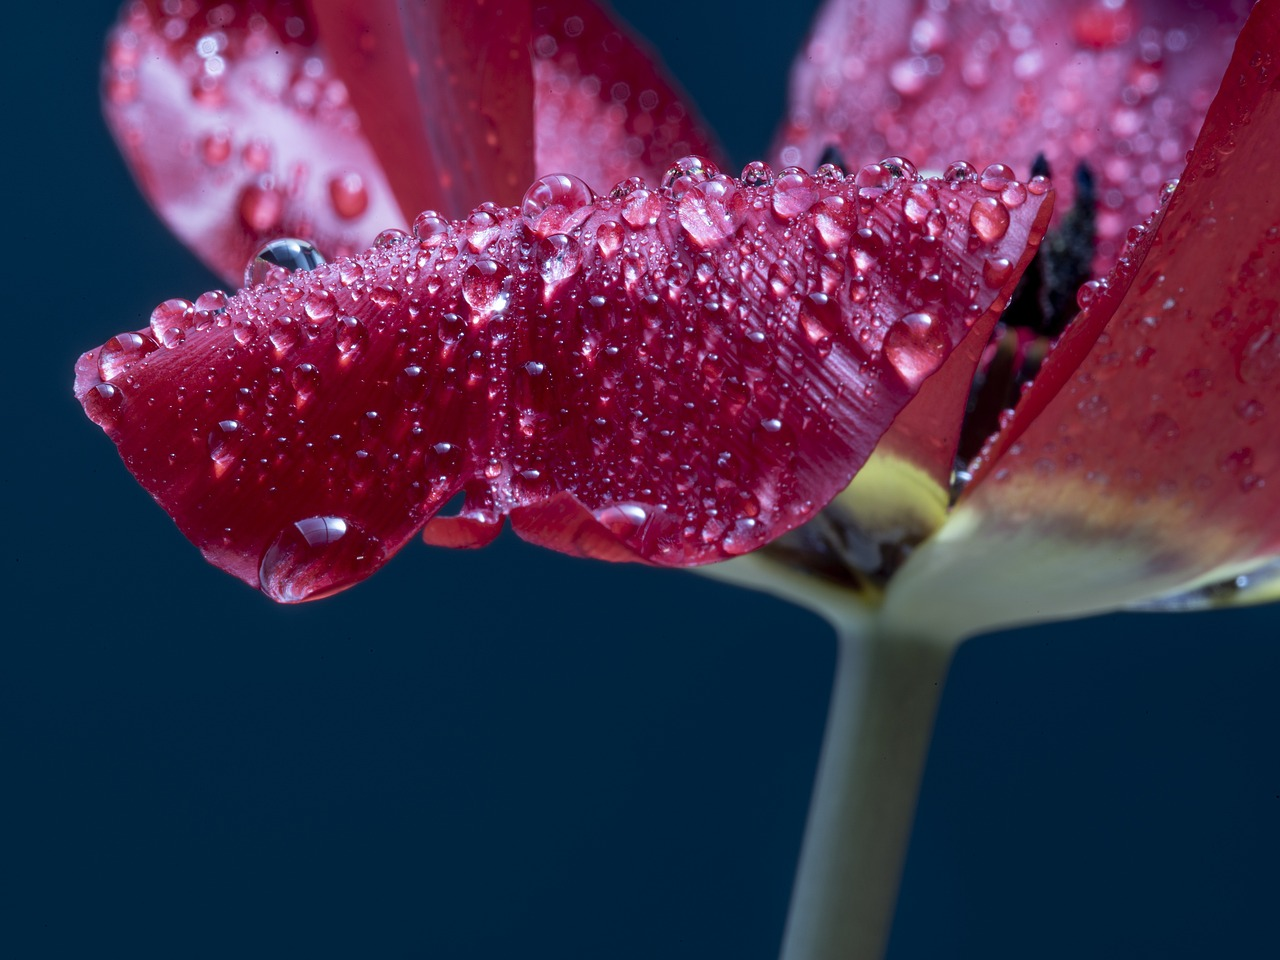
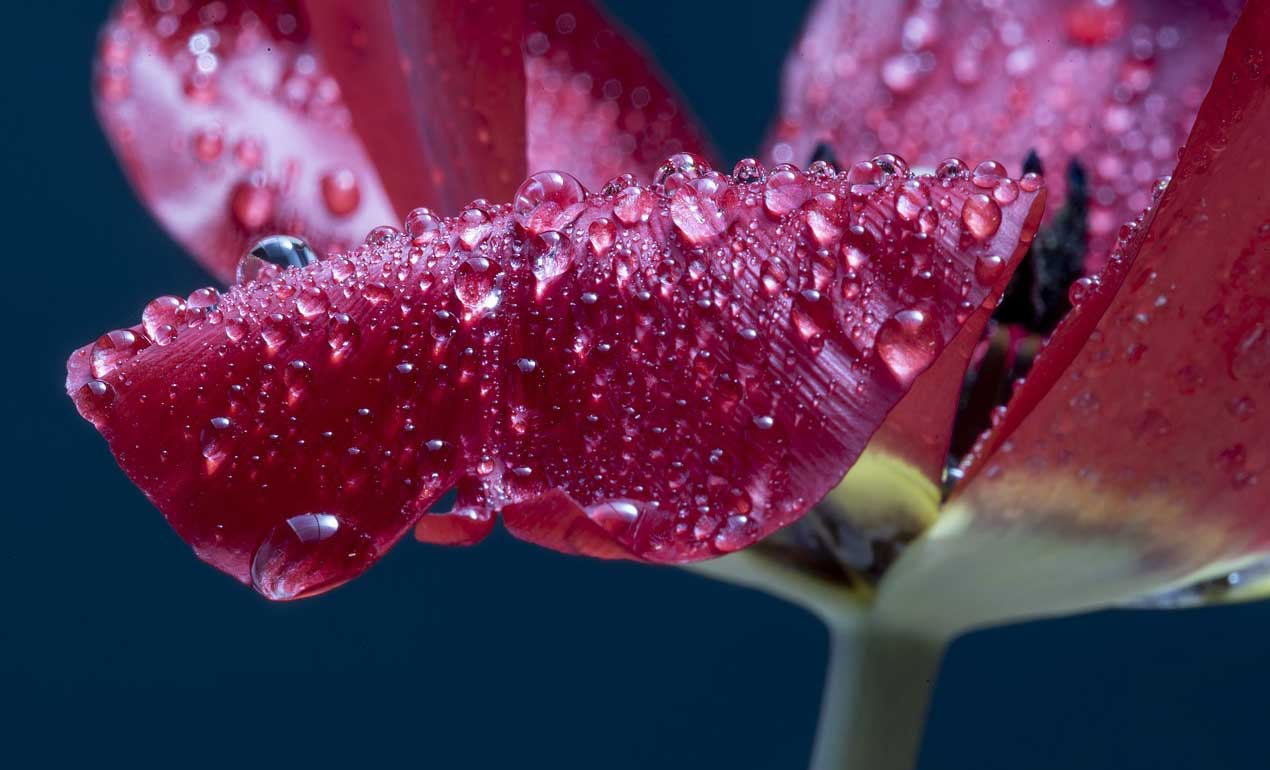
reorganised css in folder, updated links, added light version pictures updated for web

diff --git a/audio.html b/audio.html
@@ -1,106 +1,130 @@
 <!DOCTYPE html>
 <html lang="en">
-
-<head>
+  <head>
     <meta charset="UTF-8" />
     <meta http-equiv="X-UA-Compatible" content="IE=edge" />
     <meta name="viewport" content="width=device-width, initial-scale=1.0" />
-    <meta name="keywords" content="stretching, relaxing, mindfulness, well-being, Tralee">
-    <meta name="author" content="Oksana Fursa">
-    <link rel="stylesheet" href="styles.css" />
+    <meta
+      name="keywords"
+      content="stretching, relaxing, mindfulness, well-being, Tralee"
+    />
+    <meta name="author" content="Oksana Fursa" />
+    <link rel="stylesheet" href="css/styles.css" />
     <title>Altavista Audio Practices</title>
-</head>
+  </head>
 
-<body>
+  <body>
     <!-- Navigation  -->
     <nav>
-        <a href="index.html">Home</a>
-        <a href="schedule.html">Pilates</a>
-        <a href="index.html#mindfulness">Mindfulness Programs</a>
-        <a href="audio.html">Altavista audio</a>
-        <a href="index.html#subscribe">Subscribe</a>
-        <a href="index.html#reviews">Reviews</a>
-        <a href="index.html#contact">Contact Us</a>
+      <a href="index.html">Home</a>
+      <a href="schedule.html">Pilates</a>
+      <a href="index.html#mindfulness">Mindfulness Programs</a>
+      <a href="audio.html">Altavista audio</a>
+      <a href="index.html#subscribe">Subscribe</a>
+      <a href="index.html#reviews">Reviews</a>
+      <a href="index.html#contact">Contact Us</a>
     </nav>
 
     <header>
-        <figure>
-            <img src="images/image3.jpg" alt="Peacfull time in the mountains">
-            <!-- This picture is taken from free recommended resource https://pixabay.com/photos/spring-flower-trickle-non-nature-5016266/ -->
-        </figure>
-        <h1>Altavista Well-being Audio</h1>
+      <figure>
+        <img src="images/image3.jpg" alt="Peacfull time in the mountains" />
+        <!-- This picture is taken from free recommended resource https://pixabay.com/photos/spring-flower-trickle-non-nature-5016266/ -->
+      </figure>
+      <h1>Altavista Well-being Audio</h1>
     </header>
 
     <main>
-        <section class="audio-list">
-            <div class="audio-item">
-                <h2>Calm of Cosmos</h2>
-                <p class="intro">We are welcoming you in the "Calm of Cosmos."
-                    This audio experience captures the gentle vibes,
-                    offering a tranquil escape into the space.
-                    As you listen, feel the calming energy of the cosmos enveloping your senses,
-                    creating a peaceful atmosphere.</p>
-                <audio controls>
-                    <!-- All music files are taken from free source https://pixabay.com/music/search/mindful/-->
-                    <source src="audio/audio1.mp3" type="audio/mpeg">
-                    Your browser does not support the audio element.
-                </audio>
+      <section class="audio-list">
+        <div class="audio-item">
+          <h2>Calm of Cosmos</h2>
+          <p class="intro">
+            We are welcoming you in the "Calm of Cosmos." This audio experience
+            captures the gentle vibes, offering a tranquil escape into the
+            space. As you listen, feel the calming energy of the cosmos
+            enveloping your senses, creating a peaceful atmosphere.
+          </p>
+          <audio controls>
+            <!-- All music files are taken from free source https://pixabay.com/music/search/mindful/-->
+            <source src="audio/audio1.mp3" type="audio/mpeg" />
+            Your browser does not support the audio element.
+          </audio>
 
-                <h2>Cosmic Journey</h2>
-                <p class="intro">Embark on a mesmerizing "Cosmic Journey" through the symphony of the universe.
-                    It is blend of cosmic echoes.
-                    Close your eyes, and let the melodies guide you through the cosmic experience.</p>
-                <audio controls>
-                    <source src="audio/audio2.mp3" type="audio/mpeg">
-                    Your browser does not support the audio element.
-                </audio>
+          <h2>Cosmic Journey</h2>
+          <p class="intro">
+            Embark on a mesmerizing "Cosmic Journey" through the symphony of the
+            universe. It is blend of cosmic echoes. Close your eyes, and let the
+            melodies guide you through the cosmic experience.
+          </p>
+          <audio controls>
+            <source src="audio/audio2.mp3" type="audio/mpeg" />
+            Your browser does not support the audio element.
+          </audio>
 
-                <h2>Dreamlike tranquillity</h2>
-                <p class="intro">"Dreamlike Tranquillity" invites you into a world of soothing sounds
-                    that paint a dreamscape of peace and relaxation. This world is allowing your mind to wander and
-                    unwind.
-                    Let the dreamlike serenity wash over you!</p>
-                <audio controls>
-                    <source src="audio/audio3.mp3" type="audio/mpeg">
-                    Your browser does not support the audio element.
-                </audio>
+          <h2>Dreamlike tranquillity</h2>
+          <p class="intro">
+            "Dreamlike Tranquillity" invites you into a world of soothing sounds
+            that paint a dreamscape of peace and relaxation. This world is
+            allowing your mind to wander and unwind. Let the dreamlike serenity
+            wash over you!
+          </p>
+          <audio controls>
+            <source src="audio/audio3.mp3" type="audio/mpeg" />
+            Your browser does not support the audio element.
+          </audio>
 
-                <h2>Gentle whispers</h2>
-                <p class="intro">Allow the "Gentle Whispers" to transport you to a place of profound serenity.
-                    Delicate tones create an intimate auditory experience, gently envoking your senses.
-                    Engage with the soft harmonies that speak to the soul, providing
-                    a moment of quiet reflection and inner calm.</P>
-                <audio controls>
-                    <source src="audio/audio4.mp3" type="audio/mpeg">
-                    Your browser does not support the audio element.
-                </audio>
+          <h2>Gentle whispers</h2>
+          <p class="intro">
+            Allow the "Gentle Whispers" to transport you to a place of profound
+            serenity. Delicate tones create an intimate auditory experience,
+            gently envoking your senses. Engage with the soft harmonies that
+            speak to the soul, providing a moment of quiet reflection and inner
+            calm.
+          </p>
+          <audio controls>
+            <source src="audio/audio4.mp3" type="audio/mpeg" />
+            Your browser does not support the audio element.
+          </audio>
 
-                <h2>Melodic equinox</h2>
-                <p class="intro">"Melodic Equinox" orchestrates a balance of soothing melodies,
-                    inviting you to the world of calming music.
-                    It brings you a sense of balance and tranquility. </p>
-                <audio controls>
-                    <source src="audio/audio5.mp3" type="audio/mpeg">
-                    Your browser does not support the audio element.
-                </audio>
-
-
-            </div>
-
-        </section>
+          <h2>Melodic equinox</h2>
+          <p class="intro">
+            "Melodic Equinox" orchestrates a balance of soothing melodies,
+            inviting you to the world of calming music. It brings you a sense of
+            balance and tranquility.
+          </p>
+          <audio controls>
+            <source src="audio/audio5.mp3" type="audio/mpeg" />
+            Your browser does not support the audio element.
+          </audio>
+        </div>
+      </section>
     </main>
 
     <footer>
-        <span>Find us on:</span>
+      <span>Find us on:</span>
 
-        <a href="https://www.facebook.com" target="_blank" rel="noopener" aria-label="Find us on Facebook">Facebook</a>
-        <a href="https://www.instagram.com" target="_blank" rel="noopener"
-            aria-label="Find us on Instagram">Instagram</a>
-        <a href="https://www.twitter.com" target="_blank" rel="noopener" aria-label="Find us on Twitter">Twitter</a>
+      <a
+        href="https://www.facebook.com"
+        target="_blank"
+        rel="noopener"
+        aria-label="Find us on Facebook"
+        >Facebook</a
+      >
+      <a
+        href="https://www.instagram.com"
+        target="_blank"
+        rel="noopener"
+        aria-label="Find us on Instagram"
+        >Instagram</a
+      >
+      <a
+        href="https://www.twitter.com"
+        target="_blank"
+        rel="noopener"
+        aria-label="Find us on Twitter"
+        >Twitter</a
+      >
 
-        <p>&copy; 2023 Altavista Well-being Center</p>
+      <p>&copy; 2023 Altavista Well-being Center</p>
     </footer>
-
-</body>
-
+  </body>
 </html>

diff --git a/index.html b/index.html
@@ -11,7 +11,7 @@
     <meta name="author" content="Oksana Fursa" />
 
     <title>Alta vista Well-being Center</title>
-    <link rel="stylesheet" href="styles.css" />
+    <link rel="stylesheet" href="css/styles.css" />
   </head>
 
   <body>

diff --git a/schedule.html b/schedule.html
@@ -10,7 +10,7 @@
     />
     <meta name="author" content="Oksana Fursa" />
     <title>ALtavista Schedule</title>
-    <link rel="stylesheet" href="styles.css" />
+    <link rel="stylesheet" href="css/styles.css" />
   </head>
 
   <body>
